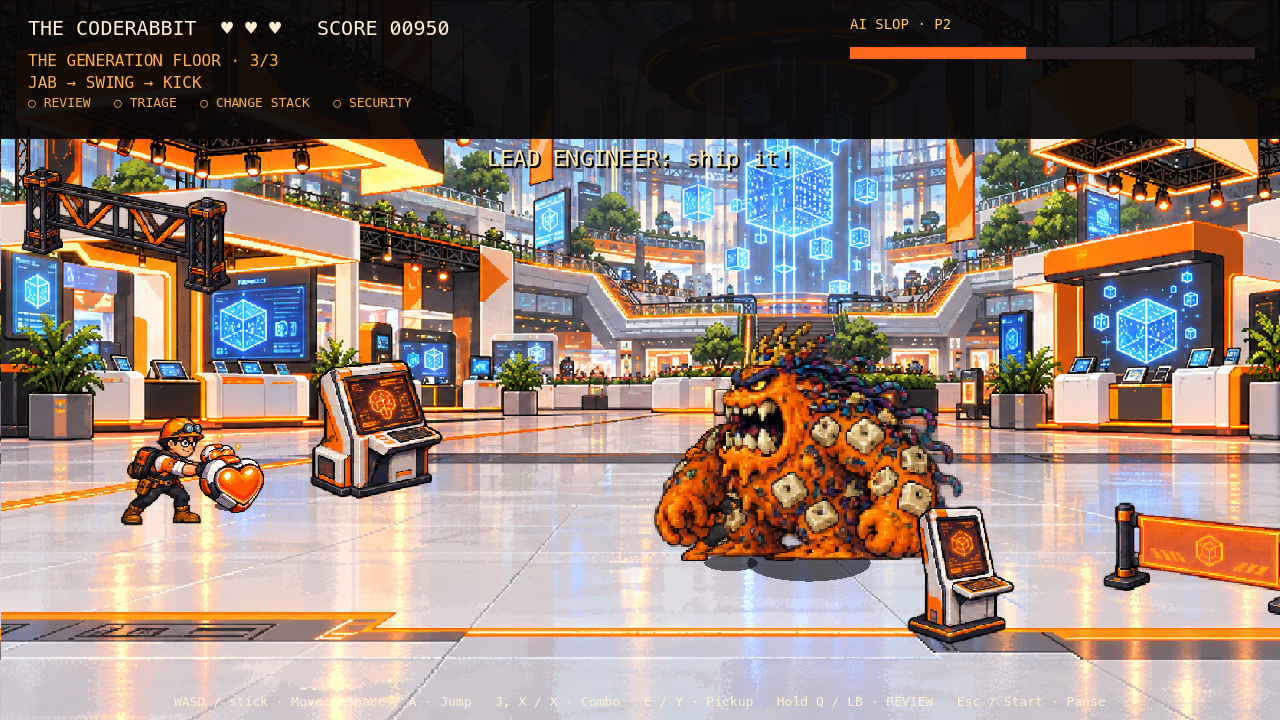
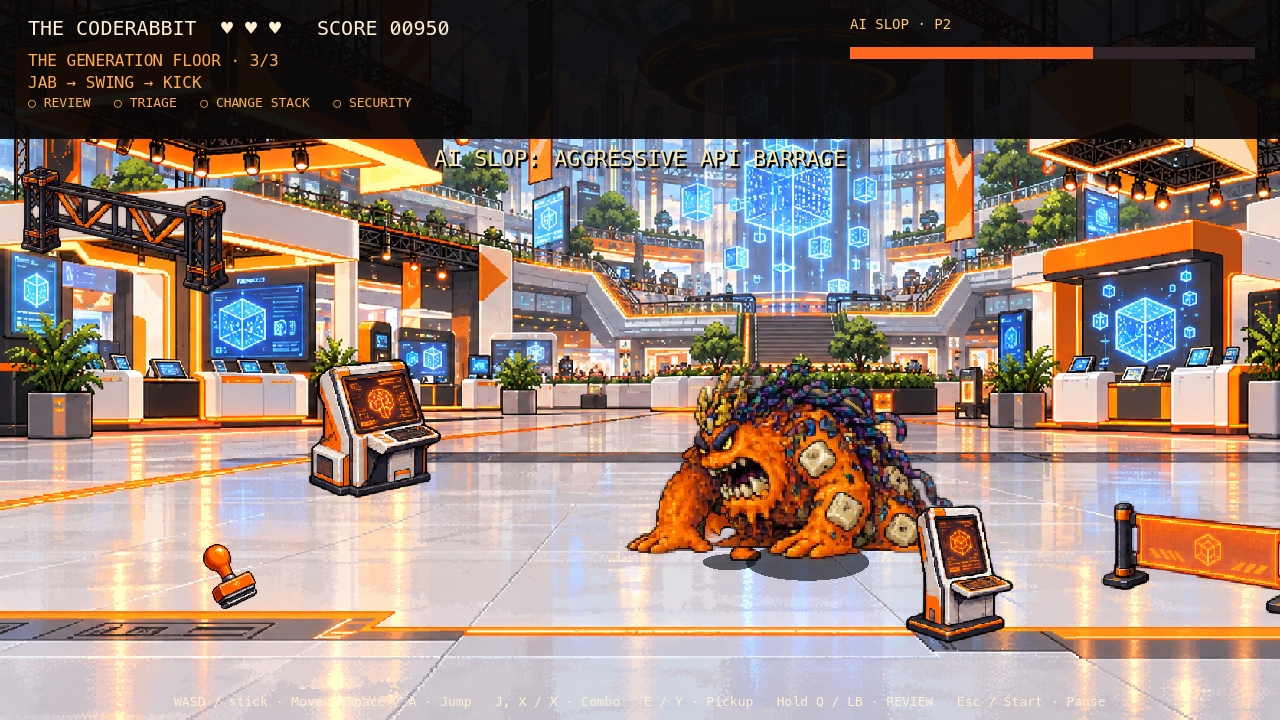
Polishing changes for Heroes vs Villians
Pop-ups now advance only with Enter or the controller’s View/Select button.

Implemented: Boss defeated → Hoppy victory hop → reward cards → Capability Deployed.

No walking to the edge is required. Reward and Continue screens still wait for Enter or View/Select. The final boss leads directly into the victory/results flow.

Changed region(s): [[0.0, 0.1833, 1.0, 0.9778], [0.7812, 0.0611, 0.875, 0.0917], [0.9062, 0.9778, 0.9375, 1.0]]

diff --git a/docs/heroes-vs-villains.md b/docs/heroes-vs-villains.md
@@ -16,13 +16,13 @@ This mode uses the armored Hoppy and the [Mode 2 asset pack](heroes-vs-villains-
 | Pick up weapon | E | Y |
 | Charge REVIEW after unlock | Hold Q | Hold LB |
 | Pause | Escape | Start |
-| Advance presentation card | Enter / J | A |
+| Advance presentation card | Enter / keypad Enter | View / Select |
 
 The armored Hoppy uses eight-frame side, away and toward-camera locomotion cycles at 14 fps, with cadence scaled to analog movement and speed effects. Base travel speed is 264 pixels/second (10% above Code City Brawl).
 
-Hoppy has three health points, jump avoidance, hit recovery and one shield on stage entry after REVIEW is unlocked. Attack presses can buffer the next combo strike. Clear the room, then walk through the right gate. Break props for supplies; consumables collect on contact, while weapons require pickup input. Defeat retries the current stage with its entry score and capabilities, fresh health and cleared temporary effects. Pause and focus loss stop the run; return-to-menu is available through pause and results.
+Hoppy has three health points, jump avoidance, hit recovery and one shield on stage entry after REVIEW is unlocked. Attack presses can buffer the next combo strike. Clear ordinary rooms, then walk through the right gate. Boss encounters end with a short Hoppy victory hop, followed by the reward cards. Claiming the last reward opens Capability Deployed immediately; no walk to the exit is required. The final boss instead leads to the final victory cards and results. Break props for supplies; consumables collect on contact, while weapons require pickup input. Defeat retries the current stage with its entry score and capabilities, fresh health and cleared temporary effects. Pause and focus loss stop the run; return-to-menu is available through pause and results.
 
-Capabilities persist within the run, not across application launches. REVIEW unlocks after AI SLOP; TRIAGE and CHANGE STACK unlock after defeating both the fused army commander and the PR; SECURITY completes the final victory. Cards slide in and remain until Enter / A / J is pressed. Opening, boss, unlock and victory cards never advance on a timer; pause preserves the pending card.
+Capabilities persist within the run, not across application launches. REVIEW unlocks after AI SLOP; TRIAGE and CHANGE STACK unlock after defeating both the fused army commander and the PR; SECURITY completes the final victory. Cards slide in and remain until Enter or controller View / Select is pressed. Opening, boss, unlock and victory cards never advance on a timer; pause preserves the pending card. Combat, pickup and jump inputs cannot dismiss cards. Stage and result confirmations also use the dedicated advance action.
 
 ## Stages and bosses
 
